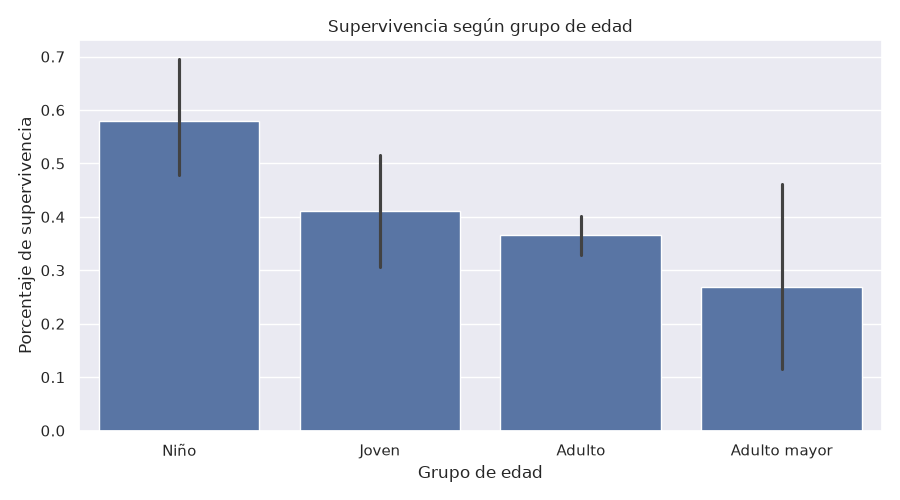
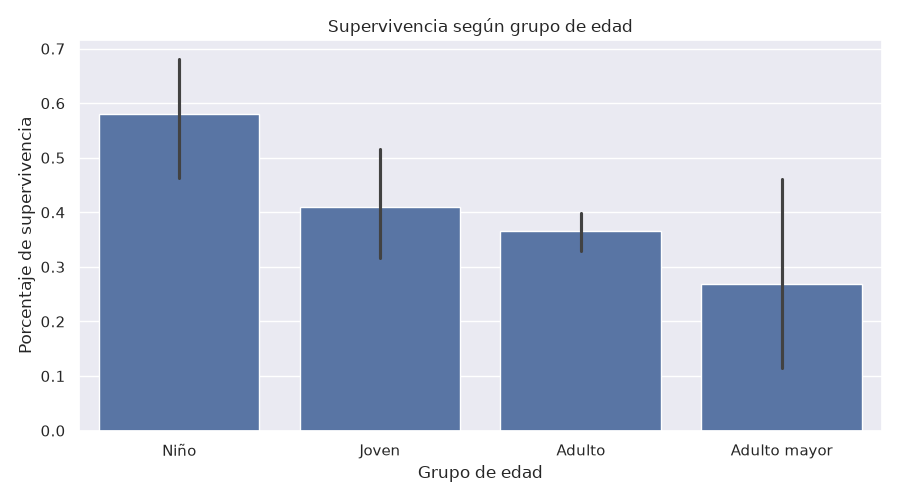
Agrega limpieza y procesamiento de datos

diff --git a/src/analysis.py b/src/analysis.py
@@ -271,4 +271,4 @@ print("=" * 60)
 print()
 
 print("Los resultados fueron guardados en:")
-print(OUTPUT_DIR)pip
+print(OUTPUT_DIR)
